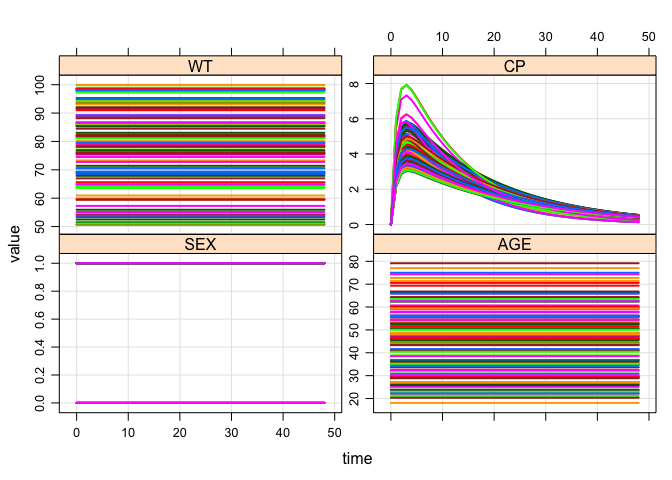
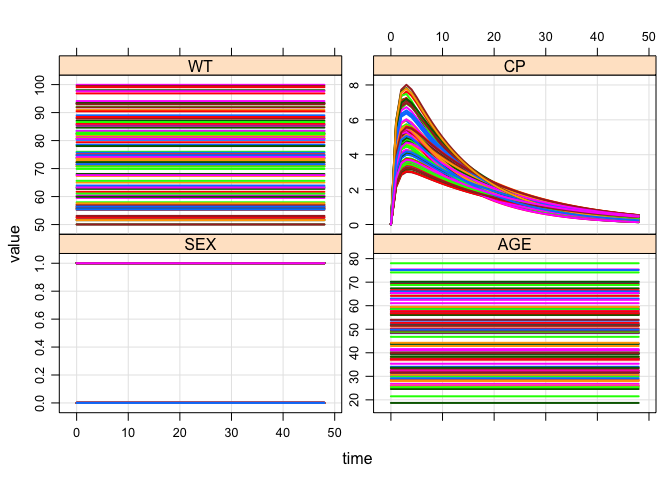
attach

diff --git a/misc_demo/covset.md b/misc_demo/covset.md
@@ -13,6 +13,7 @@ See `$ENV` for covariate simulation from bounded parametric distributions
 -   When we call `idata_set`, we can invoke a `covset` and those covariates get added
 -   The `covset` stuff (with formula parsing) is located here:
     -   <https://github.com/kylebmetrum/dmutate>
+-   In the `mrgsolve` implementation, we attach parameters to the evaluation environment, so we can use parameter names in the formulae.
 
 ``` r
 code <- '
@@ -121,16 +122,16 @@ idata %>% mrgsolve:::mutate_random(cov2,envir=e)
     . # A tibble: 100 × 6
     .       ID GROUP      AGE     FLAG       WT   SEX
     .    <int> <dbl>    <dbl>    <dbl>    <dbl> <dbl>
-    . 1      1     1 44.84579 24.58397 75.91064     1
-    . 2      2     0 72.24736 34.09395 85.44513     1
-    . 3      3     1 57.82068 24.58397 64.81275     1
-    . 4      4     0 59.10636 34.09395 65.99530     1
-    . 5      5     1 65.03113 24.58397 62.37623     0
-    . 6      6     0 37.65363 34.09395 58.28292     1
-    . 7      7     1 53.40942 24.58397 58.84919     0
-    . 8      8     0 55.66629 34.09395 83.10690     0
-    . 9      9     1 44.10355 24.58397 79.84439     1
-    . 10    10     0 57.92789 34.09395 86.38993     0
+    . 1      1     1 52.00832 33.18963 56.39856     1
+    . 2      2     0 61.83073 30.38936 50.83221     1
+    . 3      3     1 49.60105 33.18963 86.39854     1
+    . 4      4     0 39.07223 30.38936 64.46782     1
+    . 5      5     1 54.91050 33.18963 57.56074     1
+    . 6      6     0 31.75536 30.38936 69.50669     1
+    . 7      7     1 49.07430 33.18963 70.85583     1
+    . 8      8     0 64.34133 30.38936 60.43226     1
+    . 9      9     1 30.61147 33.18963 50.75021     1
+    . 10    10     0 63.36202 30.38936 88.65888     0
     . # ... with 90 more rows
 
 Other ways to use `$ENV`
